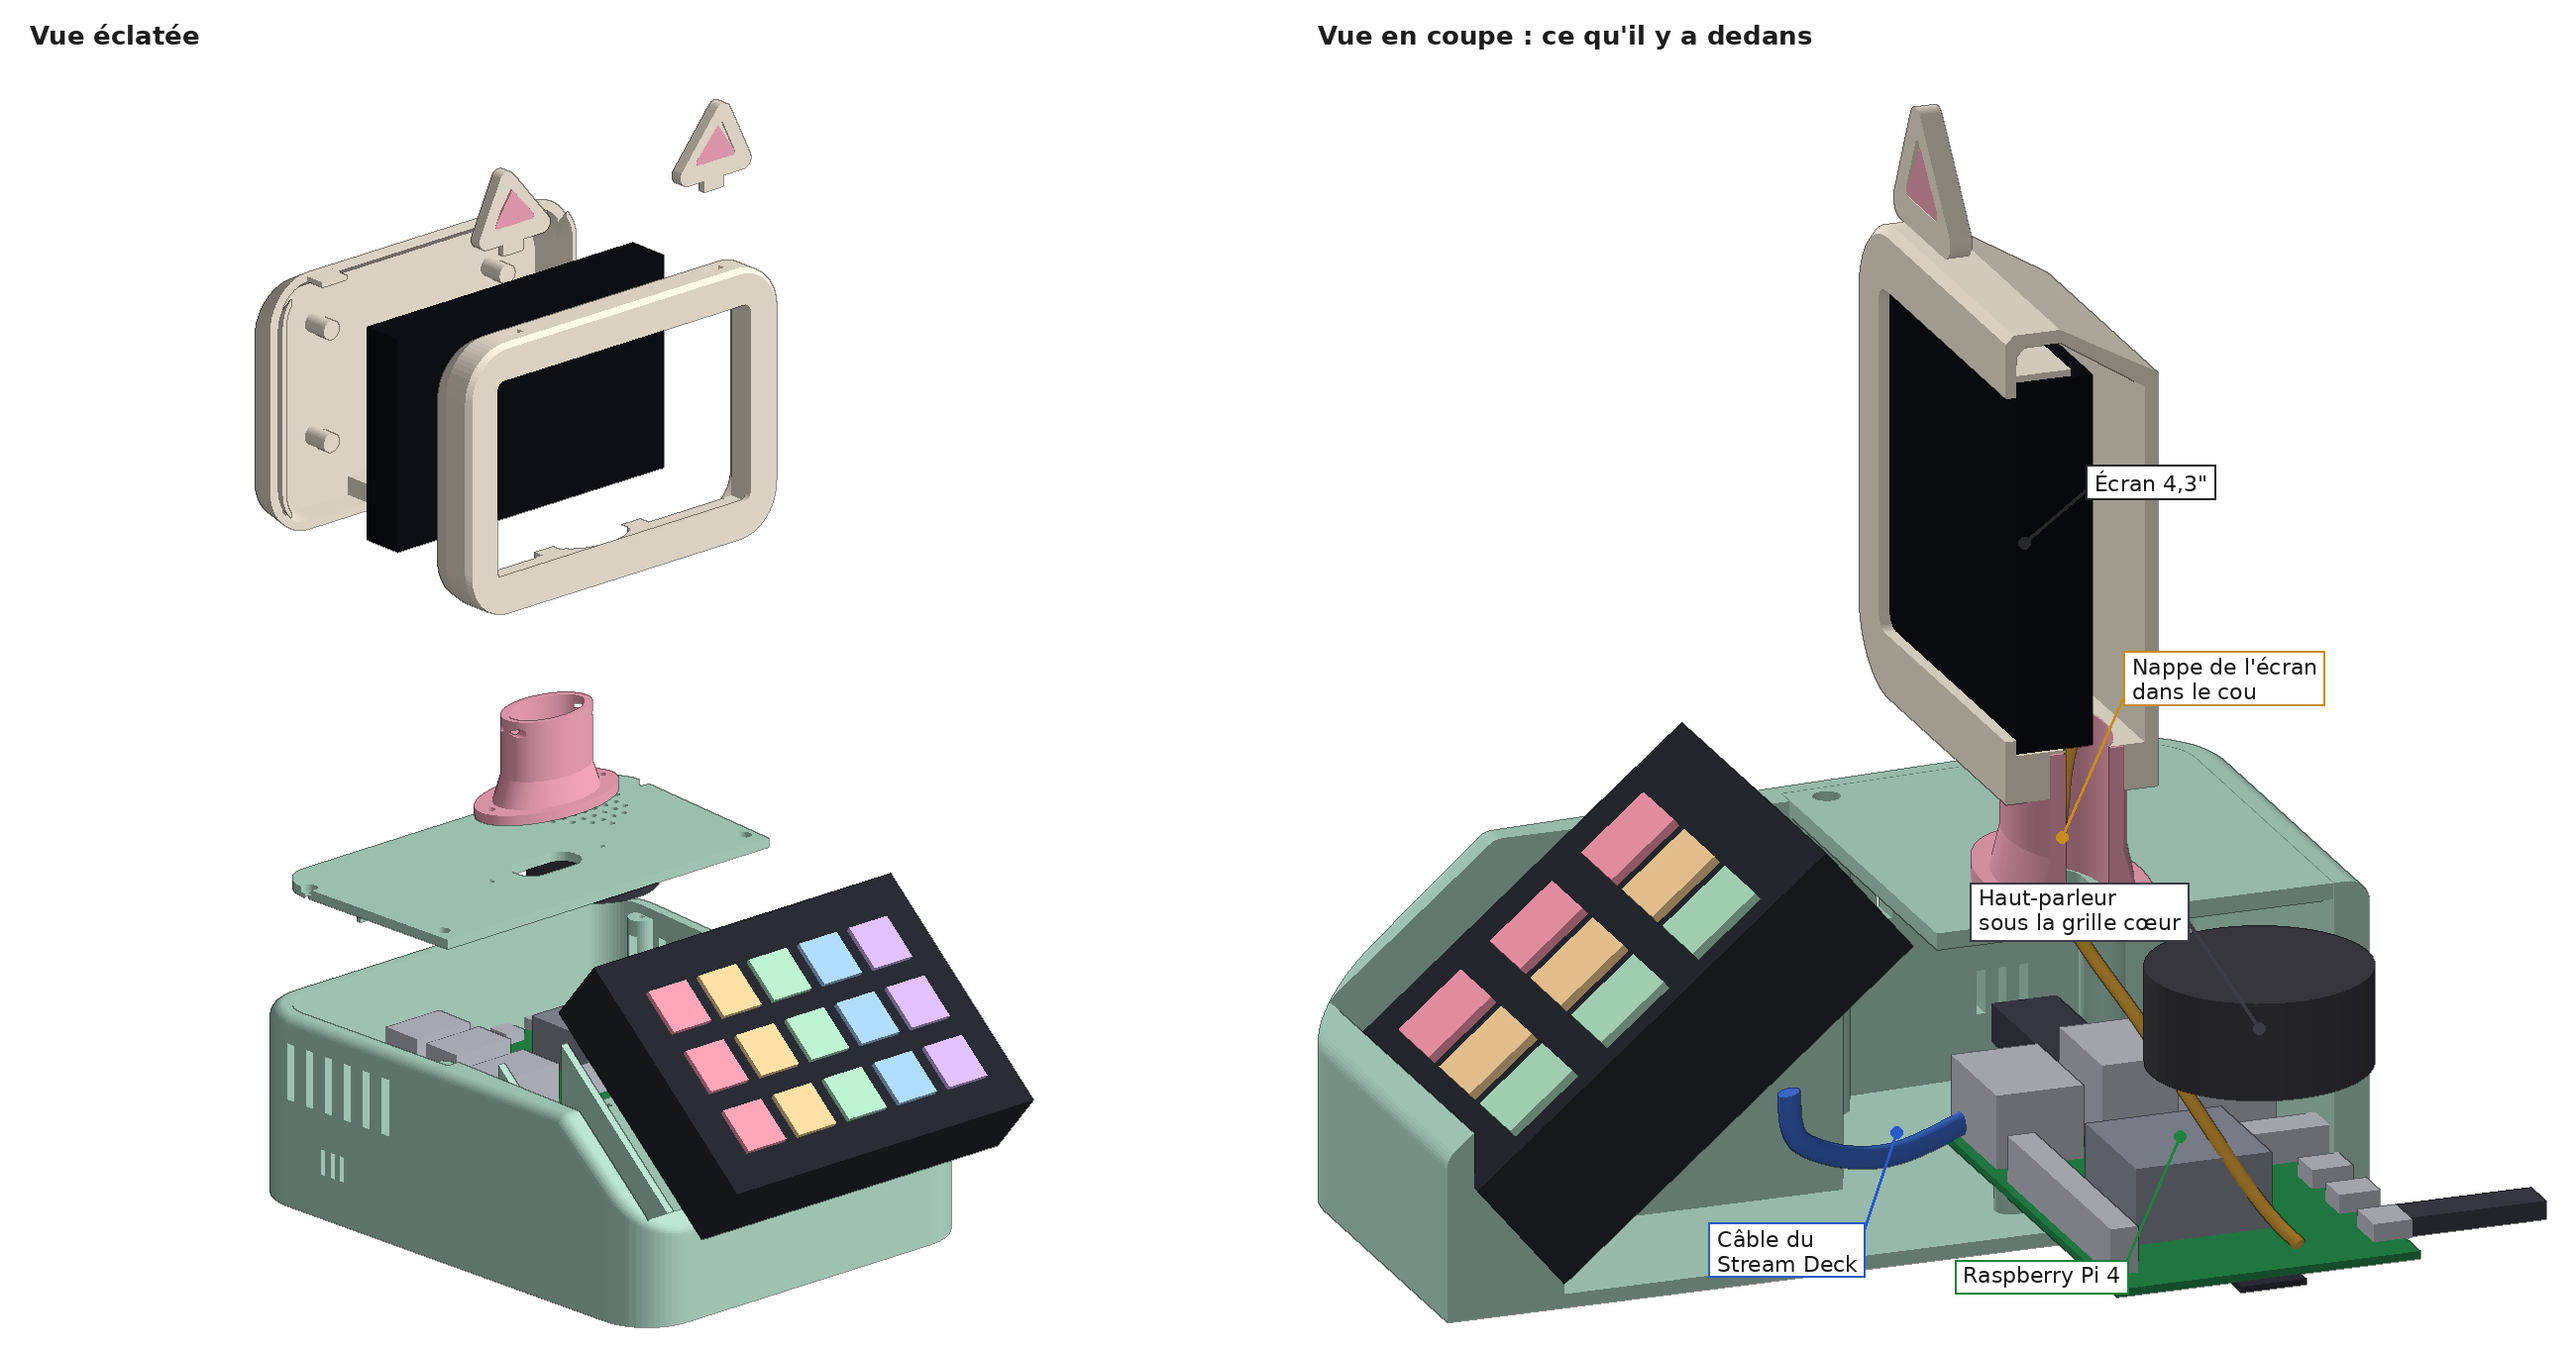
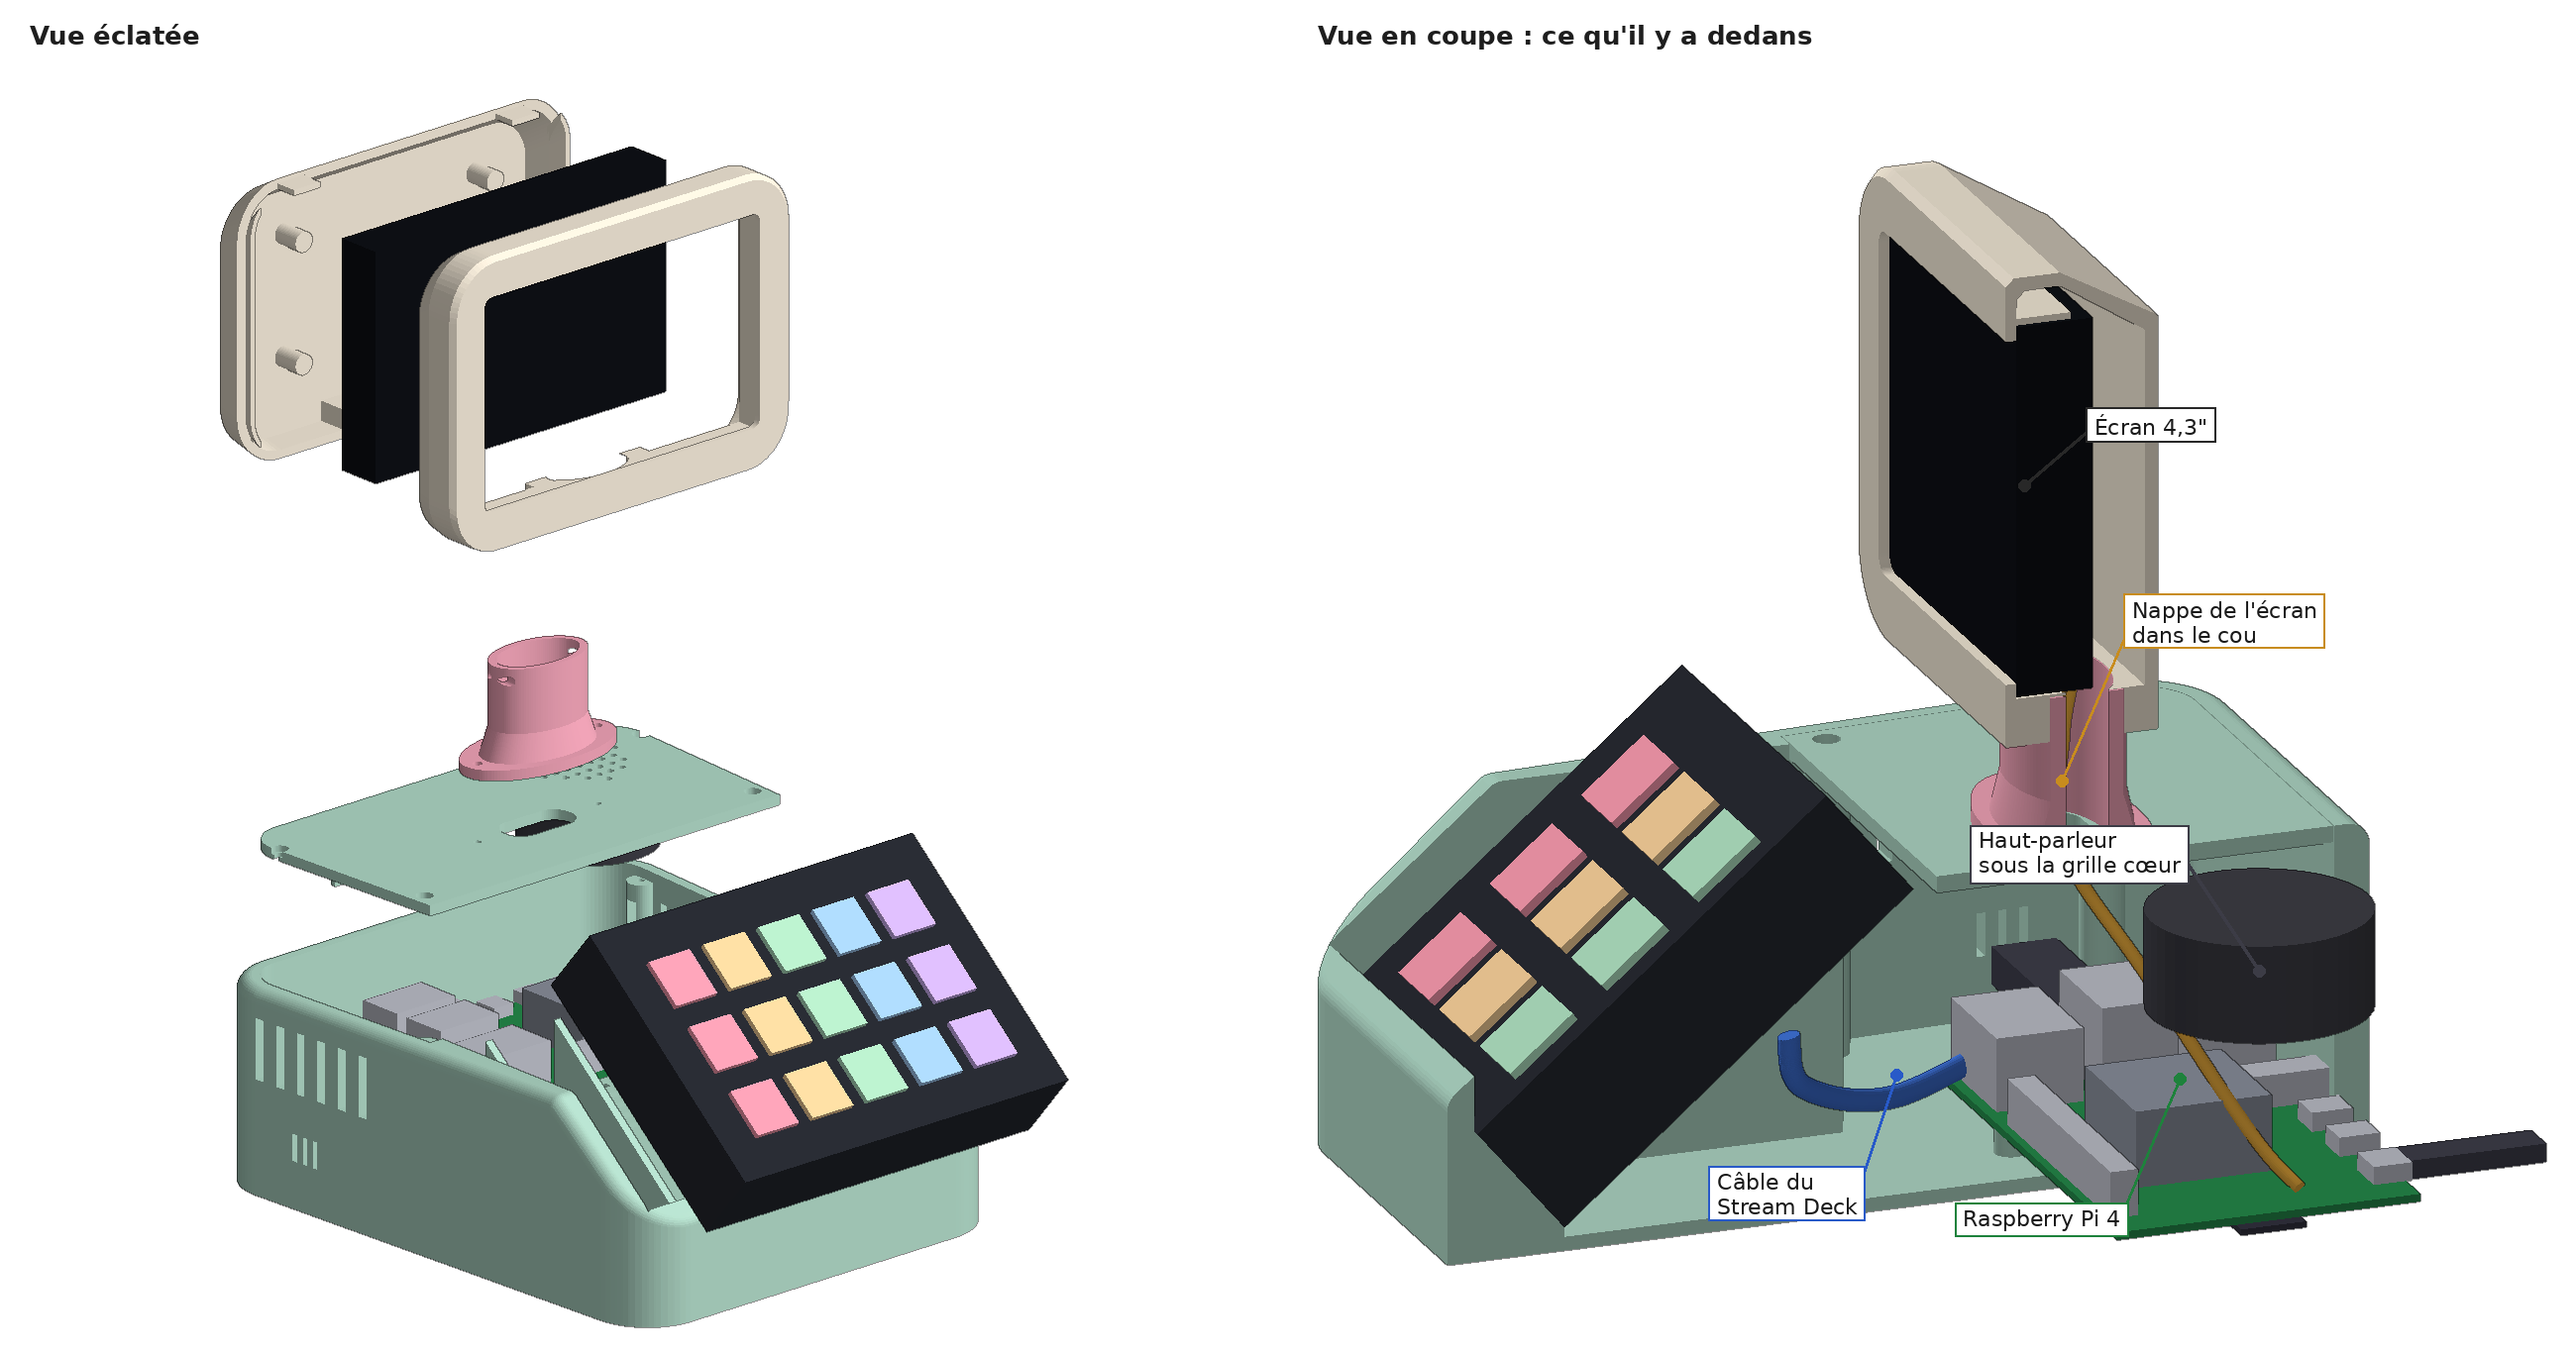
Pixel: remove the ears
Drop the ear parts and their sockets in the head front; update previews
and the build guide.

Claude-Session: https://claude.ai/code/session_01TTtGvL7Svg5STn5aj1EHie

Changed region(s): [[0.4985, 0.4292, 0.9969, 0.981], [0.0623, 0.0613, 0.4362, 0.9197], [0.7165, 0.0613, 0.8723, 0.3679]]

diff --git a/pixel-desk/generate.py b/pixel-desk/generate.py
@@ -9,7 +9,6 @@ Parts (stl/), each exported in its print orientation, no supports needed:
     PixelNeck.stl        neck (prints upright, 45 deg flare at the top)
     PixelHeadFront.stl   front of the head, holds the screen (prints face-down)
     PixelHeadBack.stl    back of the head (prints back-down)
-    PixelEarLeft.stl / PixelEarRight.stl / PixelEarInner.stl
     ScreenFitTest.stl    thin frame to check the screen size before the big prints
 
     pip install trimesh manifold3d shapely mapbox_earcut numpy scipy
@@ -368,7 +367,7 @@ def build_head():
     # bottom block holding the neck: the socket is split between front and back
     zb_top = cz - sh / 2 - 0.4
     adds.append(slab(-21, 21, f + FRONT_WALL - OVER, f + HEAD_D - HEAD_WALL + OVER, HEAD_Z0 + 0.5, zb_top))
-    # top blocks for the back's tongues, and ear sockets
+    # top blocks for the back's tongues
     zt0 = cz + sh / 2 + 0.4
     for s in (-1, 1):
         adds.append(slab(s * 40 - 5.5, s * 40 + 5.5, f + FRONT_WALL - OVER, f + SPLIT, zt0, HEAD_Z0 + HEAD_H - 0.5))
@@ -382,10 +381,9 @@ def build_head():
     # neck socket (the screen ribbon goes up through the neck)
     cuts.append(ext_xy(oval(NECK_OX + 0.4, NECK_OY + 0.4), HEAD_Z0 - 1, HEAD_Z0 + SOCKET_D + 0.2))
     cuts.append(ext_xy(oval(NECK_OX - 2 * NECK_WALL, NECK_OY - 2 * NECK_WALL), HEAD_Z0, zb_top + 1))
-    # tongue slots (open towards the split face) and ear sockets
+    # tongue slots (open towards the split face)
     for s in (-1, 1):
         cuts.append(slab(s * 40 - 5.2, s * 40 + 5.2, f + SPLIT - 7.0, f + SPLIT + 0.5, zt0 + 1.2, zt0 + 3.2))
-        cuts.append(slab(s * 40 - 4.0, s * 40 + 4.0, f + 4.7, f + 7.3, HEAD_Z0 + HEAD_H - 5.0, HEAD_Z0 + HEAD_H + 1))
     head = D(head, *cuts)
 
     front = I(head, slab(-200, 200, f - 5, f + SPLIT, -10, 400))
@@ -409,20 +407,6 @@ def build_head():
     back = D(back, *jcuts)
     front = D(front, *[cyl(s * JOIN_X, jz, f + 5.0, f + SPLIT + 1, PILOT, axis="y") for s in (-1, 1)])
     return single(front, "PixelHeadFront"), single(back, "PixelHeadBack")
-
-
-def build_ears():
-    ears = []
-    for lean in (-1, 1):
-        tri = Polygon([(-11, 2), (11, 2), (lean * 3.0, 19)]).buffer(3.0, quad_segs=16)
-        ear = ext_xy(tri, 0, 4.0)
-        pocket = Polygon([(-6.5, 5.5), (6.5, 5.5), (lean * 2.0, 15.0)]).buffer(1.2, quad_segs=12)
-        ear = D(ear, ext_xy(pocket, 3.1, 5))
-        tab = ext_xy(box(-3.85, -5.0, 3.85, 0.6), 0.8, 3.2)
-        ears.append(single(U([ear, tab]), "PixelEar"))
-    pocket = Polygon([(-6.5, 5.5), (6.5, 5.5), (0, 15.0)]).buffer(1.05, quad_segs=12)
-    insert = single(ext_xy(pocket, 0, 0.8), "PixelEarInner")
-    return ears, insert
 
 
 def build_fit_test():
@@ -455,13 +439,11 @@ def pose_back_down(m):
 def build_all():
     base, lid, neck = build_base(), build_lid(), build_neck()
     front, back = build_head()
-    (ear_l, ear_r), ear_in = build_ears()
     fit = build_fit_test()
     assembled = dict(PixelBase=base, PixelLid=lid, PixelNeck=neck, PixelHeadFront=front, PixelHeadBack=back)
     printable = {
         "PixelBase": pose_upright(base), "PixelLid": pose_top_down(lid), "PixelNeck": pose_upright(neck),
-        "PixelHeadFront": pose_face_down(front), "PixelHeadBack": pose_back_down(back),
-        "PixelEarLeft": ear_l, "PixelEarRight": ear_r, "PixelEarInner": ear_in, "ScreenFitTest": fit,
+        "PixelHeadFront": pose_face_down(front), "PixelHeadBack": pose_back_down(back), "ScreenFitTest": fit,
     }
     return assembled, printable
 

diff --git a/pixel-desk/README.md b/pixel-desk/README.md
@@ -20,12 +20,10 @@ Elles sont toutes dans `stl/`, déjà posées dans le bon sens pour l'impression
 | `PixelNeck.stl` | 52 × 28 × 30 | rose | debout, collerette en bas |
 | `PixelHeadFront.stl` | 124 × 86 × 17 | crème | face avant sur le plateau |
 | `PixelHeadBack.stl` | 120 × 82 × 18 | crème | dos sur le plateau |
-| `PixelEarLeft.stl`, `PixelEarRight.stl` | 28 × 27 × 4 | crème | à plat |
-| `PixelEarInner.stl` (×2) | 15 × 12 × 0,8 | rose | à plat |
 
 - PLA ou PETG, buse 0,4 mm, couches de 0,2 mm, 3 parois, 15 % de remplissage.
-- Il faut un plateau d'au moins **180 × 180 mm**. Compte environ **250 g** de filament en tout.
-- Les seules surfaces en surplomb sont de petits ponts (fentes d'aération, prise USB-C, logements des oreilles et des patins) et des marches de 0,75 mm.
+- Il faut un plateau d'au moins **180 × 180 mm**. Compte environ **245 g** de filament en tout.
+- Les seules surfaces en surplomb sont de petits ponts (fentes d'aération, prise USB-C, logements des patins) et des marches de 0,75 mm.
 
 ### D'abord : le cadre de test de l'écran
 
@@ -62,7 +60,7 @@ Les cotes de l'écran (106 × 68 × 14,05 mm) viennent de fiches revendeurs. Imp
 1. **Le Pi :** visse-le sur ses entretoises, la prise USB-C contre le trou à l'arrière du socle. Branche l'ampli et le haut-parleur, le micro USB, et la nappe DSI (côté Pi).
 2. **Le couvercle :** passe la nappe dans la fente du couvercle, pose le haut-parleur dans son anneau sous la grille, puis visse le couvercle (4 × M2,5 × 8).
 3. **Le cou :** enfile-le sur la nappe et visse sa collerette sur le couvercle (2 × M2,5 × 10).
-4. **La tête :** colle les inserts roses dans les oreilles, puis emboîte les oreilles dans les fentes du haut de l'avant de la tête. Pose l'écran dans l'avant (verre contre la fenêtre), avec 4 carrés de mousse au dos. Branche la nappe sur l'écran.
+4. **La tête :** pose l'écran dans l'avant de la tête (verre contre la fenêtre), avec 4 carrés de mousse au dos. Branche la nappe sur l'écran.
 5. **Fermer la tête :** pose l'avant sur le cou. Accroche l'arrière par ses deux languettes du haut, puis rabats-le vers le bas. Visse par l'arrière les 2 × M2,5 × 20 : elles traversent le cou et verrouillent la tête.
 6. **Le Stream Deck :** branche son câble sur un port USB du Pi, puis pose-le sur les nervures de la fente, avec le bord du bas contre la lèvre avant.
 
